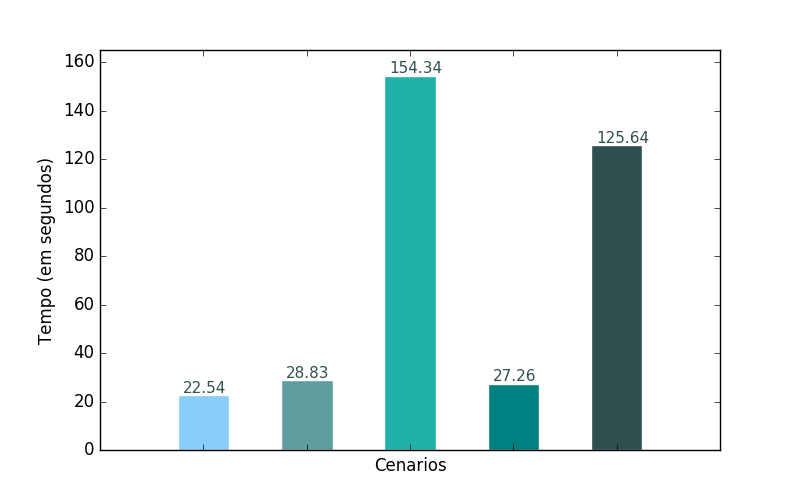
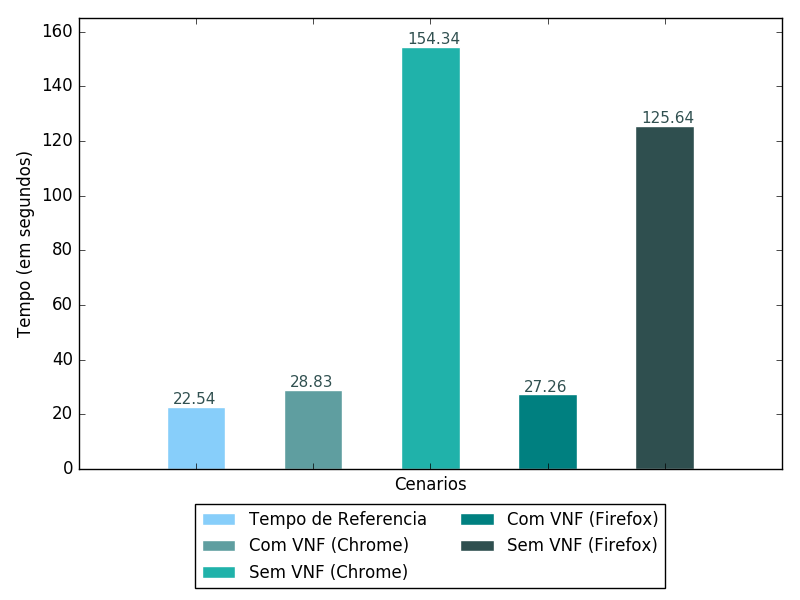
Versão Final

Changed region(s): [[0.0, 0.03, 1.0, 0.99]]

diff --git a/generate_result/make_plot.py b/generate_result/make_plot.py
@@ -15,9 +15,9 @@ def make_plot(data):
 
     x = [1, 2, 3, 4, 5]
     
-    fig = plot.figure(figsize=(8,5))
+    fig = plot.figure()
 
-    axes = fig.add_subplot(111)
+    axes = plot.subplot(111)
     w = 0.5
     axes.bar(1, 22.54, width=w, edgecolor='White', color='lightskyblue',label="Tempo de Referencia",align="center")
     axes.bar(2, data['scenario1']['duration'], width=w, edgecolor='White', color='cadetblue',label="Com VNF (Chrome)", align="center")
@@ -31,8 +31,10 @@ def make_plot(data):
     axes.tick_params(labelbottom=False)
     plot.axis((0,6,0,165))
     axes.set_ylabel("Tempo (em segundos)")
-    #axes.legend(loc="upper right", fontsize=11)
-    #axes.legend(loc=8, bbox_to_anchor=(0.5, -0.1), fontsize=9)
+    axes.legend(loc=9,bbox_to_anchor=(0.5,-0.06),ncol=2,fontsize=12)
+    #axes.legend(loc="upper right", bbox_to_anchor=(0.5, -0.1), ncol=2)
+    # left, bottom, right, top
+    plot.tight_layout(rect=[0, 0.15, 1, 1])
     plot.savefig("fig3.png")
 
 def truncate(f, n):
